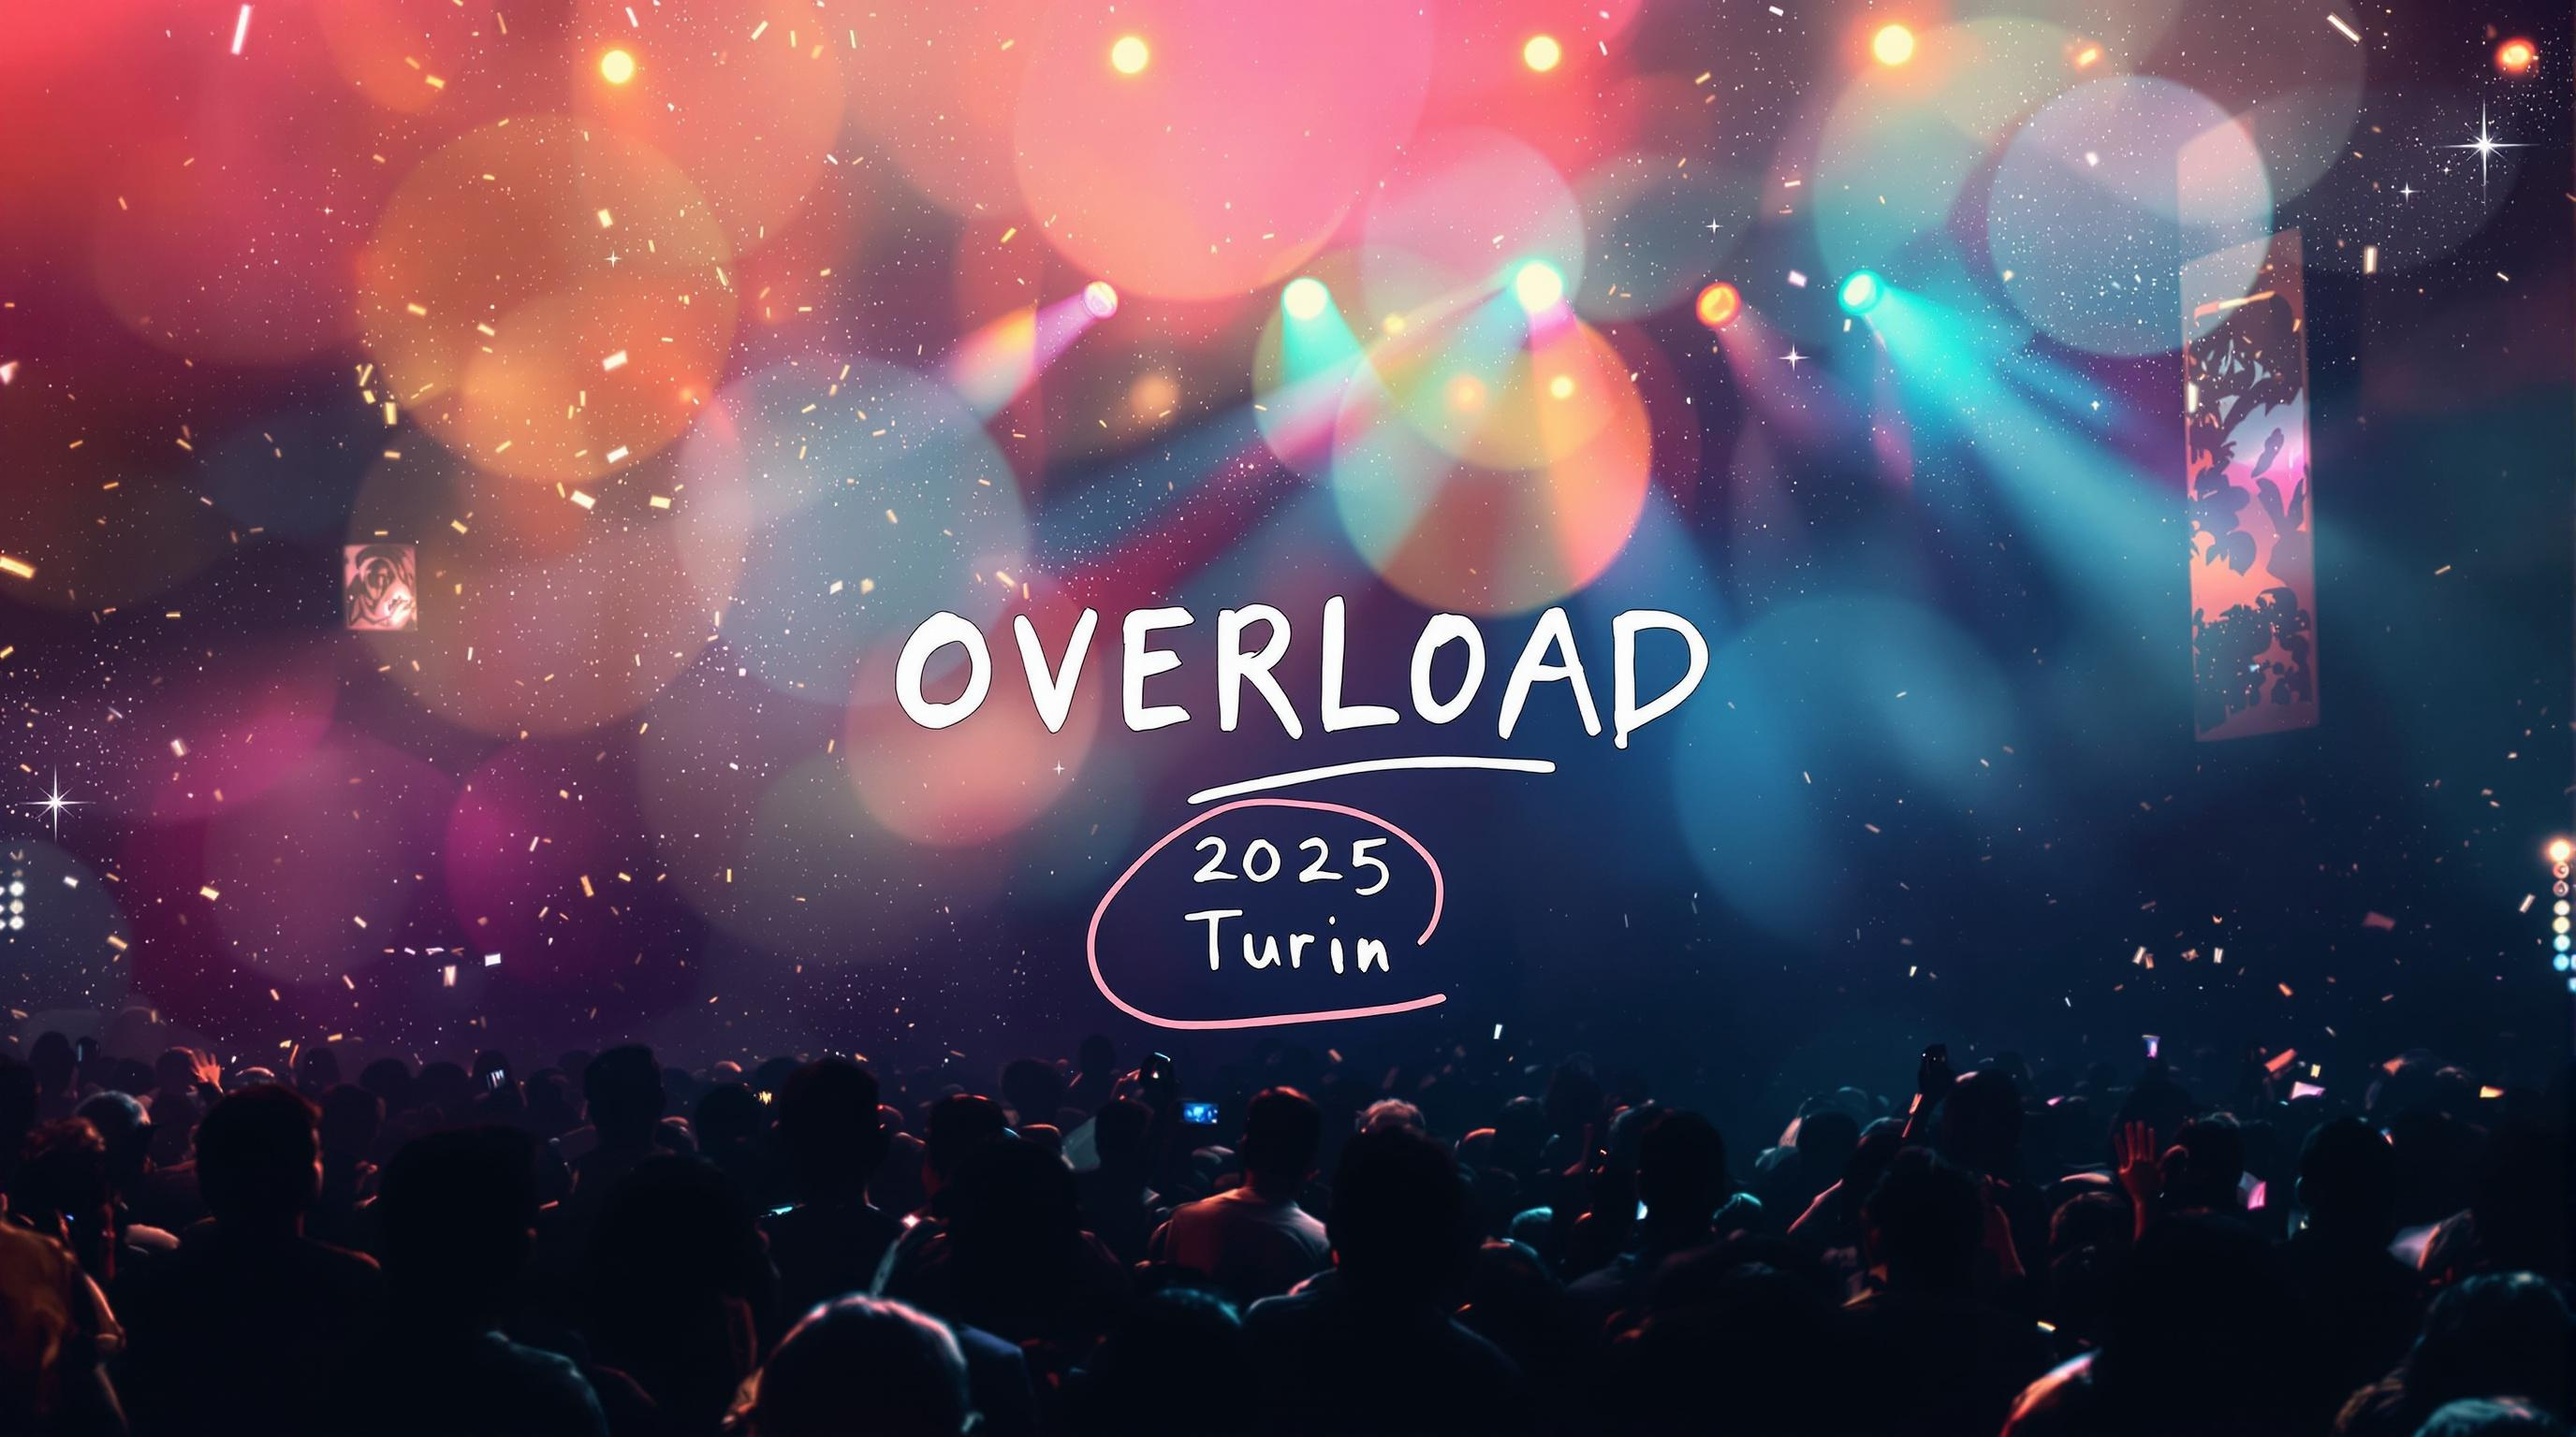
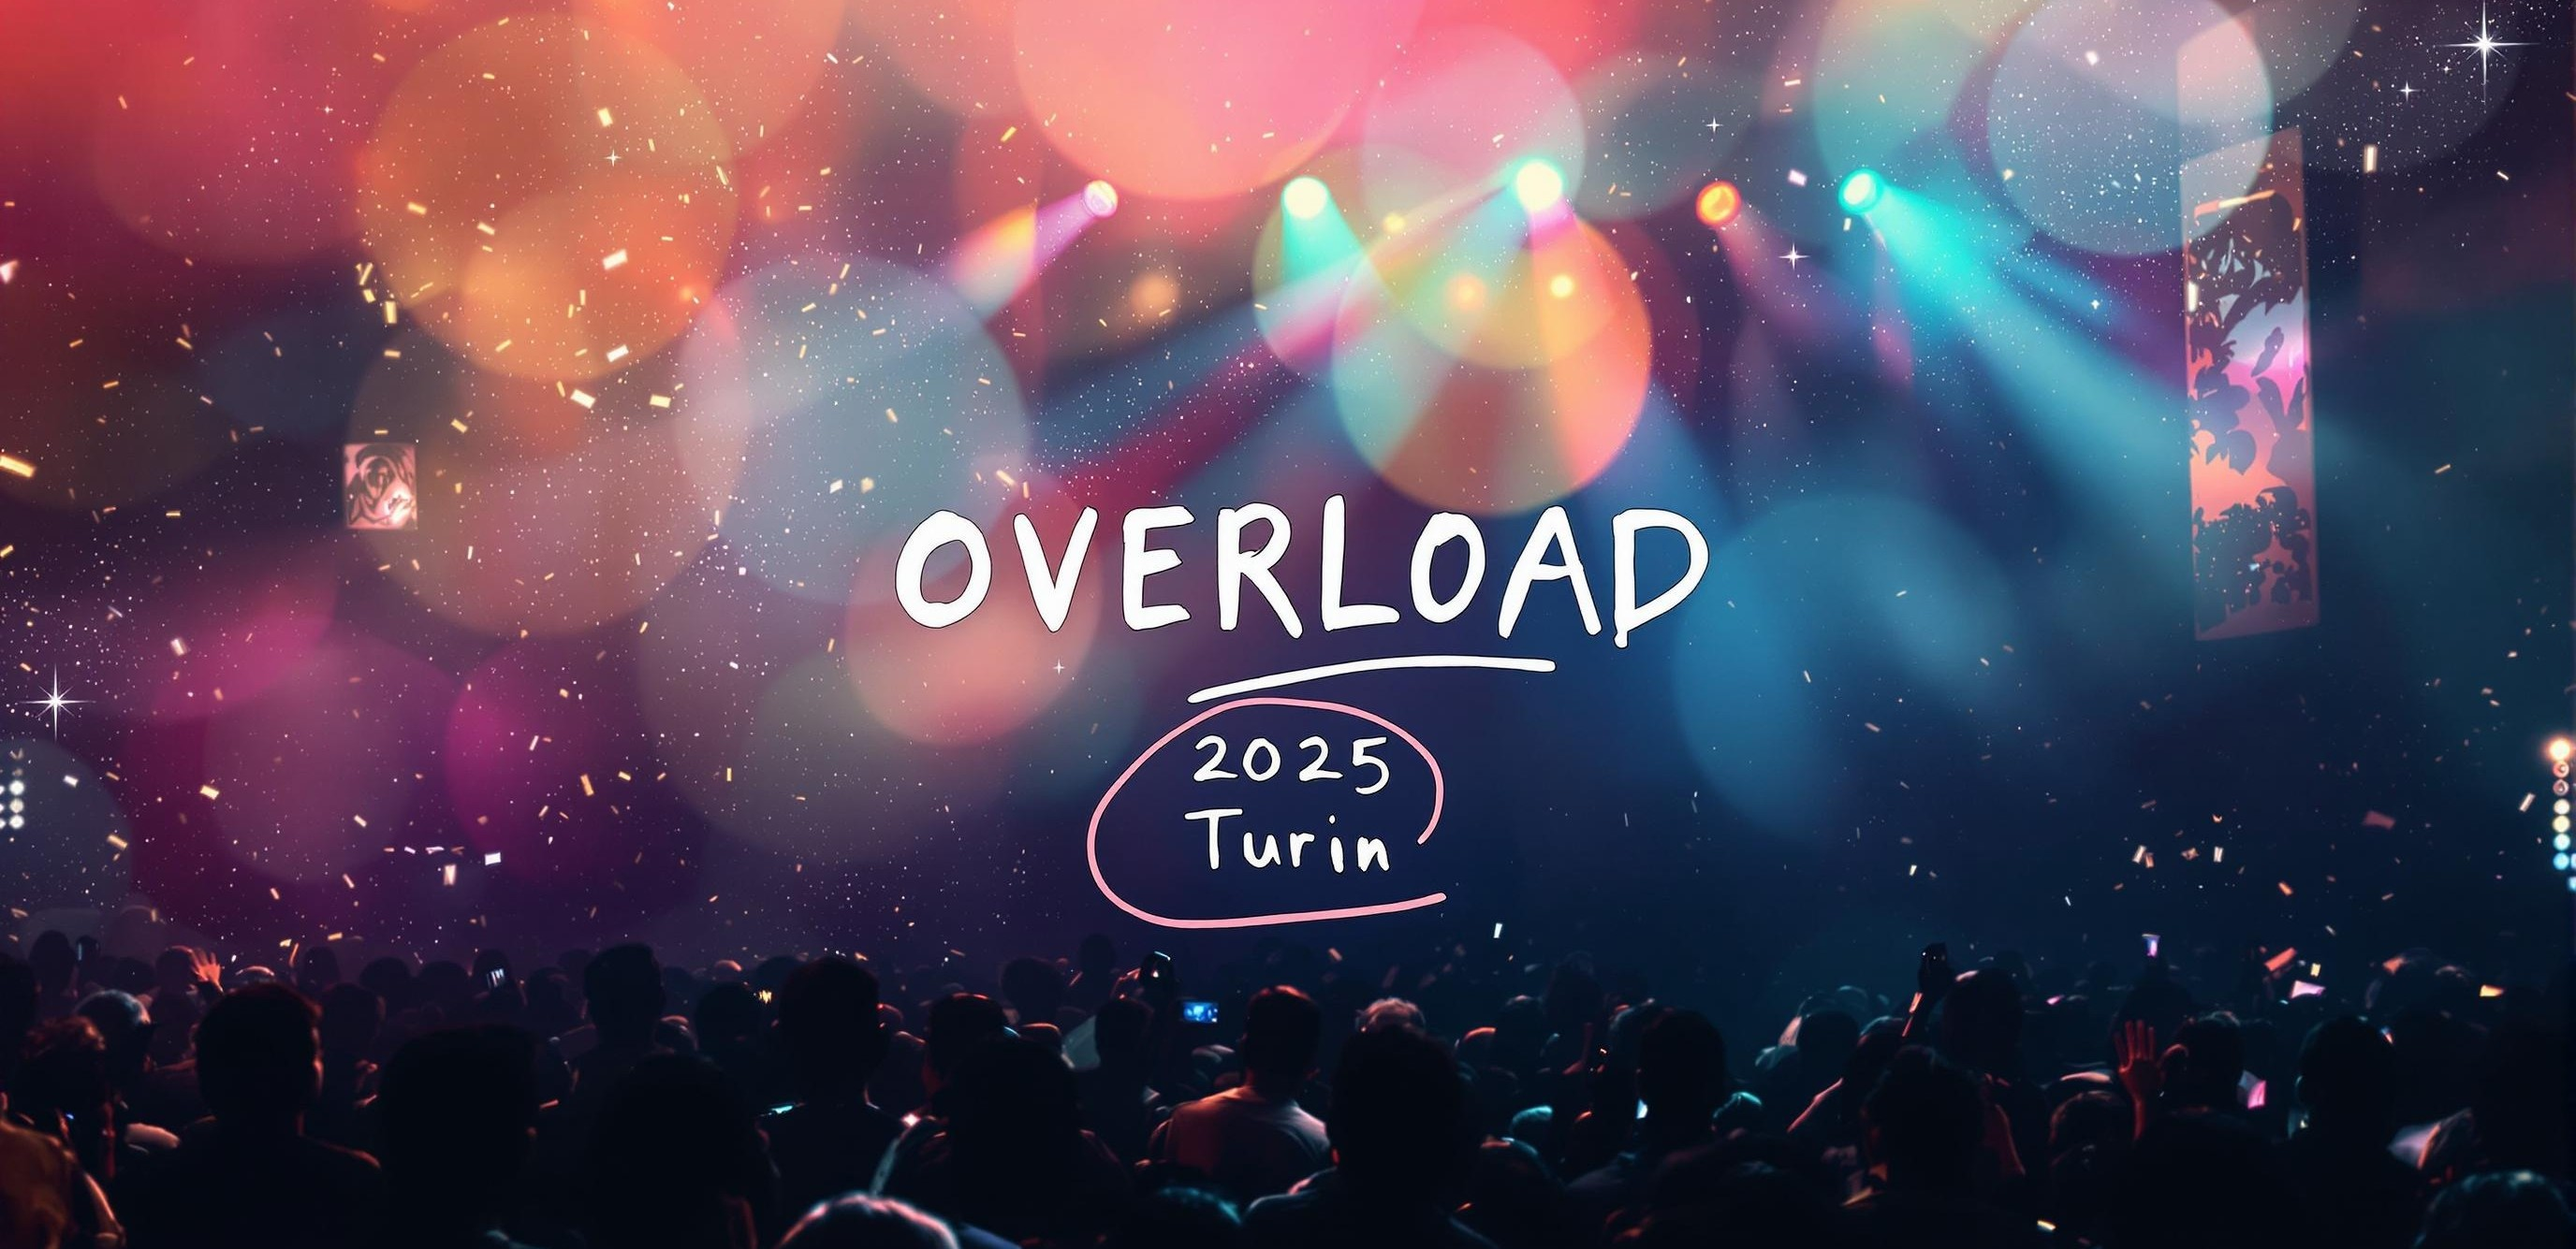
fix

diff --git a/templates/generic_error_popup.html b/templates/generic_error_popup.html
@@ -1,23 +1,25 @@
+{% set good_messages = [] %}
 {% set filtered_errors = [] %}
-{% if p_errors is defined and p_errors %}
-    {% for message in p_errors %}
-        {% set msg = message|normalize_error %}
-        {% set ns = namespace(matched=false) %}
-        {% for keyword in error_keywords %}
-            {% if keyword in msg %}
-                {% set ns.matched = true %}
-            {% endif %}
-        {% endfor %}
-        {% if ns.matched and msg not in filtered_errors %}
-            {% set _ = filtered_errors.append(msg) %}
-        {% endif %}
-    {% endfor %}
+{% for error in p_errors or [] %}
+  {% if 'event_created_successfully' in error|lower %}
+    {% set _ = good_messages.append(error) %}
+  {% else %}
+    {% set _ = filtered_errors.append(error) %}
+  {% endif %}
+{% endfor %}
+
+{% if good_messages %}
+  {% for msg in good_messages %}
+    <div class="alert alert-success border-success shadow-sm rounded-4 text-center fw-bold my-3" role="alert">
+      {{ msg|replace('_', ' ')|capitalize }}
+    </div>
+  {% endfor %}
 {% endif %}
+
 {% if filtered_errors %}
-  <div class="alert alert-danger shadow position-fixed top-0 start-50 translate-middle-x mt-4" role="alert">
-      {% for message in filtered_errors %}
-        <p class="mb-0">{{ message }}</p>
-      {% endfor %}
-    </ul>
-  </div>
+  {% for error in filtered_errors %}
+    <div class="alert alert-danger border-danger shadow-sm rounded-4 text-center fw-bold my-3" role="alert">
+      {{ error|replace('_', ' ')|capitalize }}
+    </div>
+  {% endfor %}
 {% endif %}

diff --git a/templates/home.html b/templates/home.html
@@ -77,7 +77,7 @@
         </div>
     </nav>
     <article>
-        <img src="{{ url_for('static', filename='home-overload-background1b.jpg') }}" alt="" class="full-width-bg">
+        <img src="{{ url_for('static', filename='home-overload-background1.jpg') }}" alt="" class="full-width-bg">
         <!-- href with # to scroll to the article with the corresponding id  -->
         <a href="#discover-section"
             class="btn btn-custom-centered px-4 py-2 btn-custom-gradient border-gradient shadow btn-lg rounded-pill fw-bold">DISCOVER

diff --git a/src/app.py b/src/app.py
@@ -68,6 +68,12 @@ def artist(artist_name):
 @app.route("/profile")
 @login_required
 def profile():
+    # Controllo per messaggi di successo da flash_messages
+    flash_messages = request.args.getlist('flash_messages')
+    good_messages = []
+    for msg in flash_messages:
+        if 'event_created_successfully' in msg.lower():
+            good_messages.append(msg)
     page = request.args.get("page", default=1, type=int)
     per_page = 10
     if current_user.tipo == "Basic":
@@ -89,7 +95,8 @@ def profile():
             p_drafts = paginated_drafts,
             current_page = page,
             total_published_pages = total_published_pages,
-            total_drafts_pages = total_drafts_pages
+            total_drafts_pages = total_drafts_pages,
+            p_errors=good_messages if good_messages else None
         )
 
 # route to show all types of ticket
@@ -197,6 +204,7 @@ def create_event():
     img = request.files.get('image')
     action = request.form.get('action')  # draft or publish
     published = 1 if action == 'publish' else 0
+    db_img_path = None #initialy None
 
     required_fields = {
         "day": day,
@@ -236,23 +244,6 @@ def create_event():
             p_errors=errors
         )
 
-    # Determine minimum max-dimension among all carousel images
-    carousel_dir = app.config["UPLOAD_FOLDER"]
-    min_max_dim = None
-    for fname in os.listdir(carousel_dir):
-        if fname.lower().endswith((".jpg", ".jpeg", ".png", ".gif")):
-            try:
-                img_path = os.path.join(carousel_dir, fname)
-                with Image.open(img_path) as im:
-                    w, h = im.size
-                    max_dim = max(w, h)
-                    if min_max_dim is None or max_dim < min_max_dim:
-                        min_max_dim = max_dim
-            except Exception:
-                continue
-    if min_max_dim is None:
-        min_max_dim = 800
-    db_img_path = None
     if img:
         ALLOWED_EXTENSIONS = {'png', 'jpg', 'jpeg', 'gif', 'pdf'}
         is_allowed_file = '.' in img.filename and img.filename.rsplit('.', 1)[1].lower() in ALLOWED_EXTENSIONS
@@ -276,29 +267,16 @@ def create_event():
         new_filename = f"{int(time.time())}_{original_filename}"
         upload_path = os.path.join(app.config["UPLOAD_FOLDER"], new_filename)
         img.save(upload_path)
-        # Resize image to min_max_dim
-        try:
-            with Image.open(upload_path) as im:
-                w, h = im.size
-                scale = min(min_max_dim / w, min_max_dim / h)
-                new_size = (int(w * scale), int(h * scale))
-                im = im.resize(new_size, Image.LANCZOS)
-                im.save(upload_path)
-        except Exception:
-            errors.append("IMAGE_RESIZE_ERROR")
-        db_img_path = f"uploads/{new_filename}"
+        db_img_path = f"/uploads/{new_filename}"
 
-    # DRAFT LOGIC: check if draft_id is present and valid for this user
     draft_id_valid = False
     if draft_id:
         try:
-            draft_id_int = int(draft_id)
-            draft_id_valid = spettacoli_dao.draft_exists_for_user(draft_id_int, current_user.id)
+            draft_id_valid = spettacoli_dao.draft_exist(int(draft_id))
         except Exception:
             draft_id_valid = False
 
     if not published:
-        # Always check for overlap with published events
         stage_id = palchi_dao.get_palco_by_name(stage_name)
         if stage_id is None:
             errors.append("STAGE_NOT_FOUND")
@@ -326,7 +304,6 @@ def create_event():
                 p_errors=errors
             )
 
-    # Save or update draft/event
     if not published:
         if draft_id_valid:
             success, error = spettacoli_dao.update_draft(
@@ -339,7 +316,6 @@ def create_event():
                 genre, published, current_user.id, stage_name
             )
     else:
-        # Publishing: always create a new event (not a draft update)
         success, error = spettacoli_dao.create_event(
             day, start_hour, duration, artist, description, playlist_link, db_img_path,
             genre, published, current_user.id, stage_name
@@ -366,7 +342,8 @@ def create_event():
             p_stage=stage_name,
             p_errors=errors
         )
-    return redirect(url_for("home"))
+    flash("EVENT_CREATED_SUCCESSFULLY")
+    return redirect(url_for("profile"))
 
 @app.route('/uploads/<filename>')
 def uploaded_file(filename):

diff --git a/src/dao/spettacoli_dao.py b/src/dao/spettacoli_dao.py
@@ -300,22 +300,19 @@ def get_genres():
         cursor.close()
         conn.close()
 
-def draft_exists_for_user(draft_id, user_id):
+def draft_exist(draft_id):
     try:
         conn = sqlite3.connect(DB_PATH, timeout=10)
         conn.row_factory = sqlite3.Row
         cursor = conn.cursor()
-        query = """
-            SELECT id FROM SPETTACOLI
-            WHERE id = ? AND id_creatore = ? AND pubblicato = 0
-        """
-        cursor.execute(query, (draft_id, user_id))
-        result = cursor.fetchone()
-        return result is not None
+
+        query = "SELECT id FROM SPETTACOLI WHERE id = ? AND pubblicato = 0;"
+        cursor.execute(query, (draft_id,))
+
+        draft = cursor.fetchone()
+        return draft is not None
     except Exception as e:
-        return False
+        return False, "DATABASE_ERROR_DRAFT_EXIST"
     finally:
-        if 'cursor' in locals():
-            cursor.close()
-        if 'conn' in locals():
-            conn.close()
+        cursor.close()
+        conn.close()
